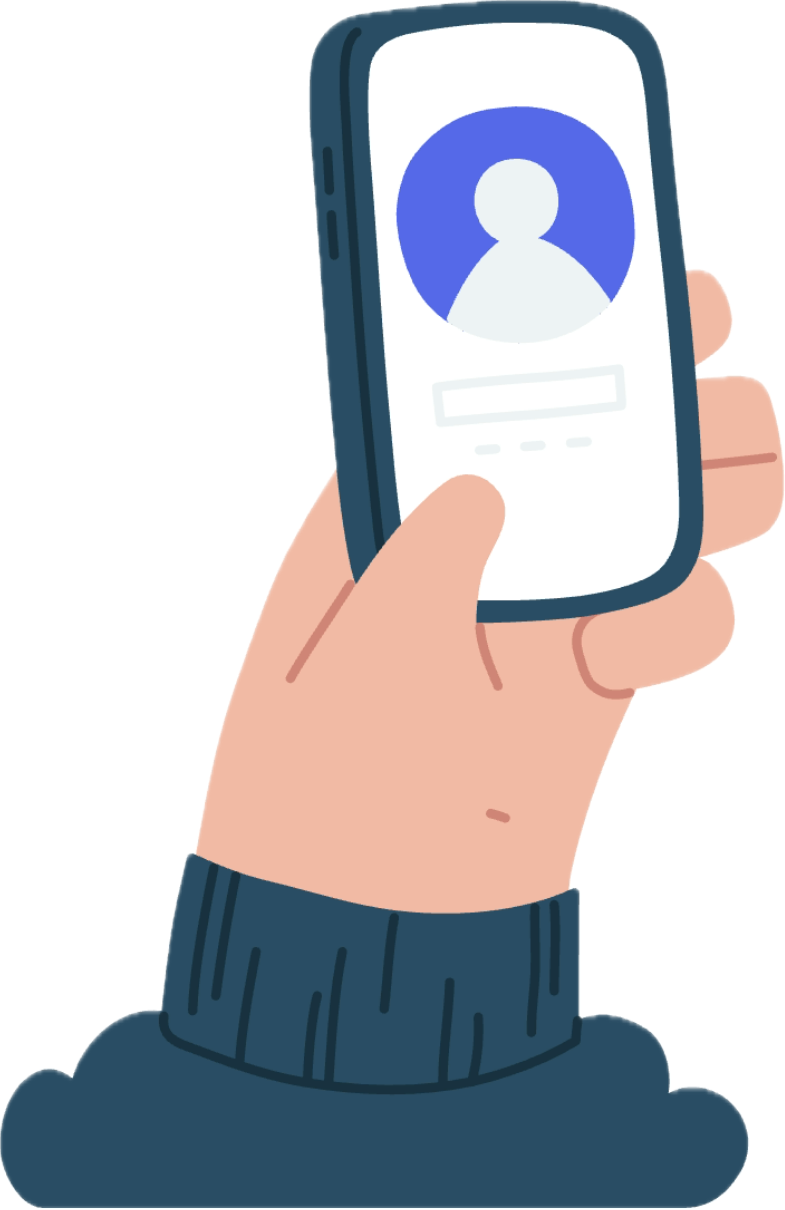
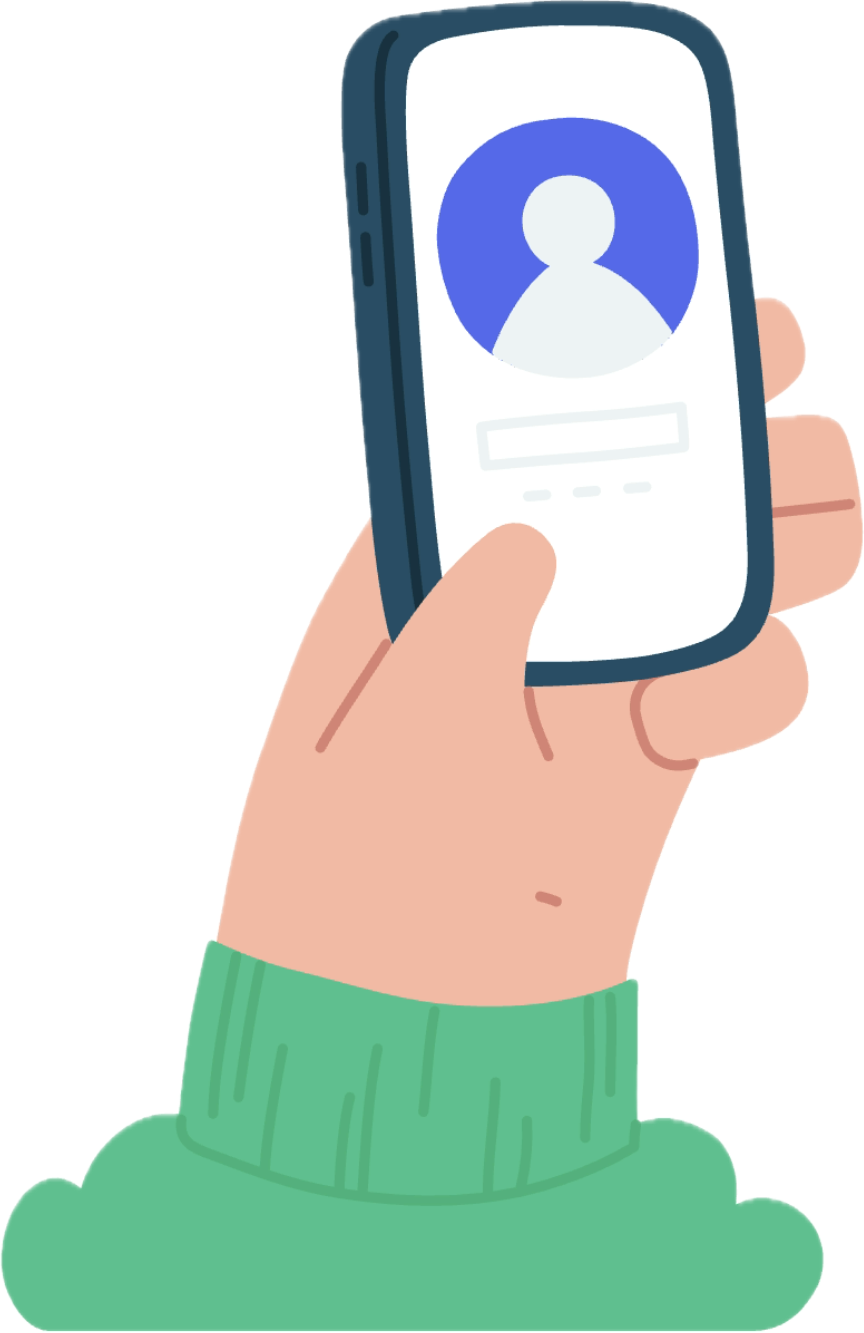
chore: modify contact section

Changed region(s): [[0.0, 0.7033, 0.9478, 1.0]]

diff --git a/app/components/Contact.tsx b/app/components/Contact.tsx
@@ -1,27 +1,37 @@
 import React from 'react';
-// import { FaPaperPlane } from 'react-icons/fa';
+import { FaPaperPlane } from 'react-icons/fa';
 import Image from 'next/image';
 
 export const Contact = () => {
   return (
-    <section id="contact" className='mt-28'>
-      <div className="flex flex-wrap justify-center">
+    <section id="contact" className='mt-24'>
+      <div className="flex flex-wrap flex-col justify-center items-center">
         <Image src={'/contact.png'} alt={'contact'} width={70} height={70}
           className='mb-10'/>
         <p className="text-center text-base sm:text-lg lg:text-xl font-mono">
           Feel to reach out using the form below or send me an email at <a 
-            href="mailto:camchu.dev.@gmail.com" className="underline">camchu.dev.@gmail.com
+            href="mailto:camchu.dev.@gmail.com" className="underline">camchu.dev@gmail.com
           </a> 🌟
         </p>
       </div>
 
-      <div className="mt-8">
-        {/* <input type="email"/>
-        <textarea name="" id="" cols="30" rows="10"></textarea>
-        <button type="submit">Submit
-          <FaPaperPlane />
-        </button> */}
-      </div>
+      <form className="mt-6 flex flex-wrap flex-col">
+        <input type="email" name='senderEmail' placeholder='Your email ' maxLength={500} required 
+          className='p-2 mb-4 rounded-md border-black'/> 
+
+        <input type="text" name='emailSubject' placeholder='Your subject ' 
+          className='p-2 mb-4 rounded-md border-black'/>
+
+        <textarea name="message" placeholder="Your message " maxLength={5000} required
+          className='p-2 mb-4 h-[px] rounded-md border-black border-shadow'>
+        </textarea>
+
+        <div className="flex flex-wrap flex-col items-center">
+          <button type="submit" className='rounded-lg bg-black p-2 w-[100px] flex items-center'>
+          Submit <FaPaperPlane className="ml-2"/>
+          </button>
+        </div>
+      </form>
     </section>
   );
 };

diff --git a/app/components/Experience.tsx b/app/components/Experience.tsx
@@ -7,7 +7,7 @@ import { experiences } from '@/lib/data';
 export const Experience = () => {
   return (
     <section id="experience">
-      <div className="mt-16">
+      <div className="mt-20">
         <VerticalTimeline>
           {
             experiences.map((item, index) => (
@@ -32,12 +32,14 @@ export const Experience = () => {
                     color:'black'
                   }}
                 >
-                  <h3 className="text-black font-bold capitalize xl:text-xl">{item.title}</h3>
-                  <p className="text-black !mt-1 font-semibold xl:text-lg">
-                    {item.company}
+                  <h3 className="text-black font-bold font-mono 
+                  capitalize xl:text-xl">{item.title}</h3>
+                  <p className="text-black !mt-1 font-semibold 
+                  xl:text-lg font-mono"> {item.company}
                   </p>
-                  <p className="font-normal !mt-0 text-gray-700 xl:text-lg">{item.location}</p>
-                  <p className="text-black !mt-0 !font-normal italic">
+                  <p className="font-normal font-mono !mt-0 text-gray-700 
+                  xl:text-lg ">{item.location}</p>
+                  <p className="text-black !mt-0 !font-normal font-mono italic">
                     {item.description}
                   </p>
                 </VerticalTimelineElement>
